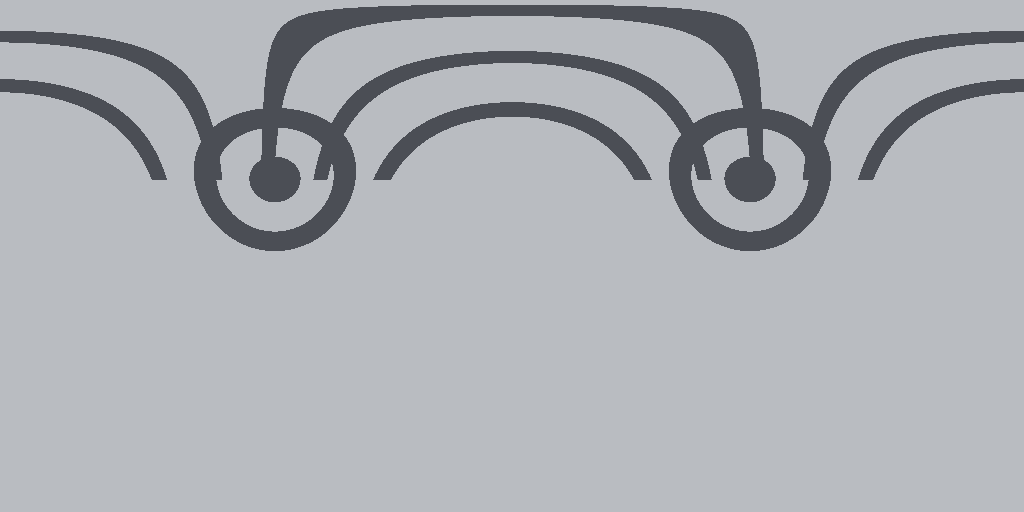
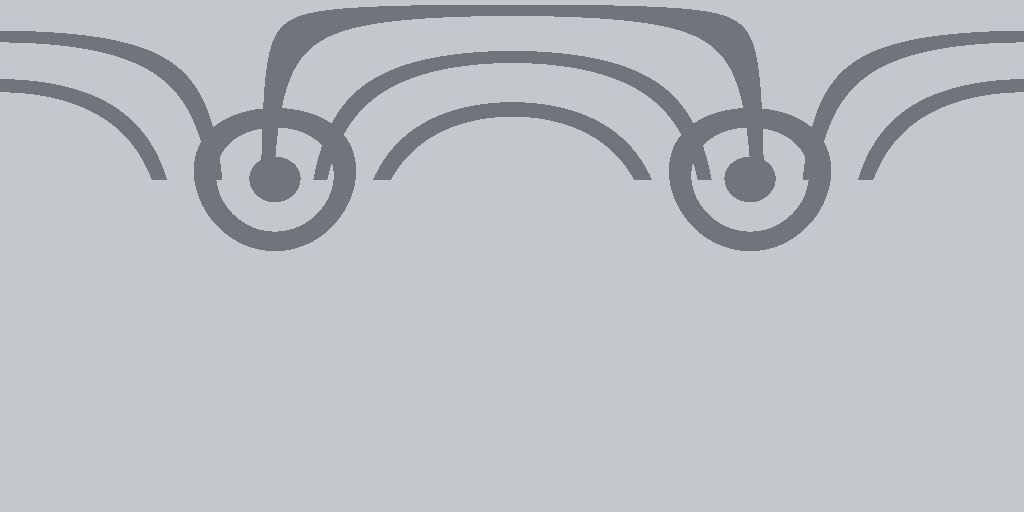
Remodel the cat as a loafing American Shorthair
A round-faced loaf with closed eyes, white muzzle and paws, splayed ears
and a tail wrapped along its side, with softer tabby stripes.

Claude-Session: https://claude.ai/code/session_019ggxabgDhCYUh62LeLnHLD

Changed region(s): [[0.0, 0.0, 1.0, 0.5], [0.8438, 0.1562, 1.0, 0.3438], [0.0, 0.1562, 0.1562, 0.3438]]

diff --git a/blender/layout.py b/blender/layout.py
@@ -339,28 +339,37 @@ def build_left():
 
 
 def cat(cx, cy, yaw):
-    """一只团着睡觉的美国短毛猫：椭球身子、埋在前爪上的头、两只耳朵、绕到前面的尾巴，背上几道深色虎斑。"""
-    fur, dark, pink = M("cat_fur", "#b9bcc1", 0.8), M("cat_stripe", "#4b4e55", 0.8), M("cat_pink", "#e8a0a8", 0.6)
+    """小布：一只银色虎斑美短，「香箱座」揣着手趴在桌上睡觉。脸朝 -Y（朝镜头），圆脸大腮帮，
+    头压在身子前端，耳朵往两边微微撇开，尾巴沿右侧绕到前面。虎斑纹画在身子的贴图里（textures.py 的 tabby）。"""
+    fur, line, pink, white = M("cat_fur", "#c4c7cc", 0.8), M("cat_stripe", "#55585f", 0.8), M("cat_pink", "#eba3ad", 0.6), M("cat_white", "#eeece8", 0.8)
     root = empty("cat_root", (cx, cy, T), (0, 0, yaw))
     root.scale = (1.3, 1.3, 1.3)
-    bm = bmesh.new()   # 身子用带 UV 的球，虎斑纹画在贴图里（textures.py 的 tabby），分开的条纹物体在漫画描边里会变成一根根黑刺
+    bm = bmesh.new()   # 身子：长轴先沿 X 建（贴图的条纹按 X 画），再转到 Y；底部切平贴着桌面
     bm.loops.layers.uv.verify()
     bmesh.ops.create_uvsphere(bm, u_segments=48, v_segments=24, radius=1.0, calc_uvs=True)
-    bmesh.ops.bisect_plane(bm, geom=bm.verts[:] + bm.edges[:] + bm.faces[:], plane_co=(0, 0, 0), plane_no=(0, 0, -1), clear_outer=True)
+    bmesh.ops.scale(bm, vec=(0.074, 0.050, 0.044), verts=bm.verts)
+    bmesh.ops.rotate(bm, verts=bm.verts, cent=(0, 0, 0), matrix=Matrix.Rotation(math.pi / 2, 3, "Z"))
+    bmesh.ops.translate(bm, verts=bm.verts, vec=(0, 0.012, 0.030))
+    bmesh.ops.bisect_plane(bm, geom=bm.verts[:] + bm.edges[:] + bm.faces[:], plane_co=(0, 0, 0.001), plane_no=(0, 0, -1), clear_outer=True)
     bmesh.ops.holes_fill(bm, edges=bm.edges)
-    bmesh.ops.scale(bm, vec=(0.078, 0.058, 0.048), verts=bm.verts)
     for f in bm.faces:
         f.smooth = True
     add("cat_body", bm, tex("tabby.png", rough=0.8), hot="cat", parent=root)
-    ball("cat_head", 0.036, (-0.072, -0.024, 0.040), fur, scale=(1.0, 1.05, 0.85), hot="cat", parent=root)
-    for s_ in (-1, 1):
-        cyl(f"cat_ear{s_}", 0.012, 0.022, (-0.078, -0.024 + s_ * 0.020, 0.074), fur, r2=0.001, rot=(s_ * R(-18), R(-10), 0), seg=12, hot="cat", parent=root)
-        cyl(f"cat_ear_in{s_}", 0.007, 0.014, (-0.081, -0.024 + s_ * 0.020, 0.073), pink, r2=0.0005, rot=(s_ * R(-18), R(-10), 0), seg=10, hot="cat", parent=root)
-    torus("cat_tail", 0.062, 0.010, (0.0, 0.0, 0.006), fur, rot=(0, 0, R(200)), arc=math.pi * 0.9, seg=24, sub=10, hot="cat", parent=root)
-    for s_ in (-1, 1):   # 闭着的眼睛
-        torus(f"cat_eye{s_}", 0.007, 0.0012, (-0.104, -0.024 + s_ * 0.013, 0.050), dark, rot=(-math.pi / 2, 0, math.pi / 2), arc=math.pi, seg=10, sub=4, hot="cat", parent=root)
-    ball("cat_muzzle", 0.014, (-0.100, -0.026, 0.032), M("cat_white", "#e9e7e2", 0.8), scale=(0.7, 1.2, 0.8), hot="cat", parent=root)
-    ball("cat_nose", 0.005, (-0.106, -0.026, 0.036), pink, hot="cat", parent=root)
+    # 头：圆脸、腮帮宽，压在身子前上方
+    ball("cat_head", 0.038, (0, -0.052, 0.066), fur, scale=(1.18, 0.95, 0.92), hot="cat", parent=root)
+    for sx in (-1, 1):
+        ear = (sx * 0.025, -0.050, 0.097)
+        cyl(f"cat_ear{sx}", 0.015, 0.026, ear, fur, r2=0.002, rot=(R(-8), sx * R(24), 0), seg=16, hot="cat", parent=root)
+        cyl(f"cat_ear_in{sx}", 0.0095, 0.018, (ear[0] - sx * 0.001, ear[1] - 0.004, ear[2] - 0.001), pink, r2=0.001, rot=(R(-8), sx * R(24), 0), seg=12, hot="cat", parent=root)
+        # 闭着的眼睛：两道向下弯的弧
+        torus(f"cat_eye{sx}", 0.0065, 0.0013, (sx * 0.017, -0.0875, 0.072), line, rot=(-math.pi / 2, 0, 0), arc=math.pi, seg=12, sub=5, hot="cat", parent=root)
+        # 白色的嘴套（两团）和胡须垫
+        ball(f"cat_muzzle{sx}", 0.010, (sx * 0.0075, -0.0865, 0.058), white, scale=(1.0, 0.8, 0.85), hot="cat", parent=root)
+        # 揣在胸前、露出一点的前爪
+        ball(f"cat_paw{sx}", 0.010, (sx * 0.016, -0.052, 0.005), white, scale=(1.0, 1.2, 0.6), hot="cat", parent=root)
+    ball("cat_nose", 0.0042, (0, -0.0905, 0.064), pink, scale=(1.2, 0.8, 0.8), hot="cat", parent=root)
+    tail = torus("cat_tail", 0.056, 0.0085, (0, 0.012, 0.008), fur, rot=(0, 0, R(-70)), arc=R(150), seg=28, sub=10, hot="cat", parent=root)
+    tail.scale = (0.98, 1.38, 1.0)
 
 
 def build_center():
@@ -372,7 +381,7 @@ def build_center():
         tip = (x + rng.uniform(-0.012, 0.012), py + rng.uniform(0.0, 0.03), T + 0.17 + rng.uniform(-0.01, 0.02))
         rod(f"pen{i}", (x, py, T + 0.04), tip, 0.008, M(f"pen{i}", col, 0.4), seg=10)
     # 美短：银色虎斑，团成一团睡在笔架旁边
-    cat(0.33, 0.25, R(-25))
+    cat(0.33, 0.25, R(-12))
     # 蜘蛛面具：点它切换宇宙（致敬参考站）
     mx, my = 0.10, 0.05
     root = empty("mask_root", (mx, my, T + 0.002), (R(-14), 0, R(-10)))

diff --git a/pipeline/textures.py b/pipeline/textures.py
@@ -467,7 +467,7 @@ def tabby(w=1024, h=512):
     ph = np.linspace(np.pi / 2, -np.pi / 2, h)[:, None]
     x, y, z = np.cos(ph) * np.cos(th), np.cos(ph) * np.sin(th), np.sin(ph)
     im = np.empty((h, w, 3), np.float32)
-    im[:] = (185, 188, 193)
+    im[:] = (196, 199, 204)
     dark = np.zeros((h, w), bool)
     for c in (-0.5, -0.22, 0.06, 0.34, 0.62):   # 跨过脊背的条纹：x 等于常数的等值线，只画背上那一段
         dark |= (np.abs(x - c) < 0.035) & (z > 0.45)
@@ -475,7 +475,7 @@ def tabby(w=1024, h=512):
         cx, cy, cz = 0.1, sy * 0.88, 0.45
         dist = np.arccos(np.clip((x * cx + y * cy + z * cz) / math.sqrt(cx * cx + cy * cy + cz * cz), -1, 1))
         dark |= (np.abs(dist - 0.38) < 0.06) | (dist < 0.14)
-    im[dark] = (75, 78, 85)
+    im[dark] = (112, 116, 124)
     return Image.fromarray(im.astype(np.uint8))
 
 
